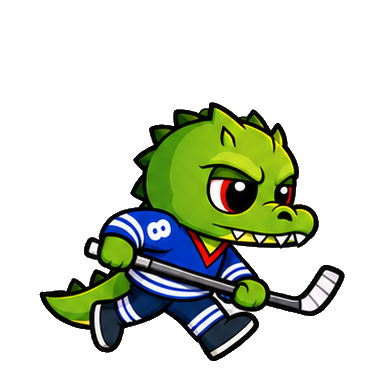
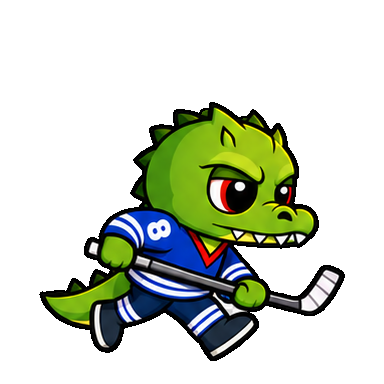
Swap hero to the new HQ frame set (v6).
Rebuild a 384px sheet with black keyed out and white fringe cleaned.

Changed region(s): [[0.625, 0.2812, 0.6562, 0.3125], [0.5, 0.2812, 0.5312, 0.3125], [0.25, 0.6875, 0.2812, 0.7188]]

diff --git a/apps/web/src/scenes/PlayScene.ts b/apps/web/src/scenes/PlayScene.ts
@@ -53,20 +53,20 @@ type Pickup = {
 
 const GROUND_Y_RATIO = 0.82;
 /** Frame size of dundee-hockey spritesheet */
-const FRAME = 256;
+const FRAME = 384;
 /** Keep on-screen size close to previous hero */
-const PLAYER_SCALE = 0.26;
+const PLAYER_SCALE = 0.17;
 const JUMP_VELOCITY = -560;
 const COYOTE_MS = 100;
 const JUMP_BUFFER_MS = 120;
-const BODY_W = 80;
-const BODY_H = 128;
-const BODY_OX = 88;
-const BODY_OY = 120;
-const DUCK_W = 160;
-const DUCK_H = 56;
-const DUCK_OX = 48;
-const DUCK_OY = 192;
+const BODY_W = 120;
+const BODY_H = 192;
+const BODY_OX = 132;
+const BODY_OY = 180;
+const DUCK_W = 240;
+const DUCK_H = 84;
+const DUCK_OX = 72;
+const DUCK_OY = 288;
 const BASE_SPEED = 280;
 const SPEED_GAIN = 8;
 /** One platform tile width in px = 1 meter of run distance */

diff --git a/apps/web/src/scenes/BootScene.ts b/apps/web/src/scenes/BootScene.ts
@@ -10,8 +10,8 @@ export class BootScene extends Phaser.Scene {
     const base = import.meta.env.BASE_URL;
     this.load.spritesheet(
       "crocodile",
-      `${base}assets/crocodile-hero/dundee-hockey-v5.png`,
-      { frameWidth: 256, frameHeight: 256 },
+      `${base}assets/crocodile-hero/dundee-hockey-v6.png`,
+      { frameWidth: 384, frameHeight: 384 },
     );
     this.load.image("platform", `${base}assets/platform_static.png`);
     this.load.image("saw", `${base}assets/saw_blade.png`);

diff --git a/apps/web/src/scenes/MenuScene.ts b/apps/web/src/scenes/MenuScene.ts
@@ -45,7 +45,7 @@ export class MenuScene extends Phaser.Scene {
     this.add
       .sprite(width / 2, height * 0.4, "crocodile")
       .setOrigin(0.5, 1)
-      .setScale(0.72)
+      .setScale(0.5)
       .setDepth(5)
       .play("idle");
 

diff --git a/apps/web/index.html b/apps/web/index.html
@@ -25,7 +25,7 @@
     </style>
   </head>
   <body>
-    <!-- build: hero-hockey-v5 -->
+    <!-- build: hero-hockey-v6 -->
     <div id="game"></div>
     <script type="module" src="/src/main.ts"></script>
   </body>
